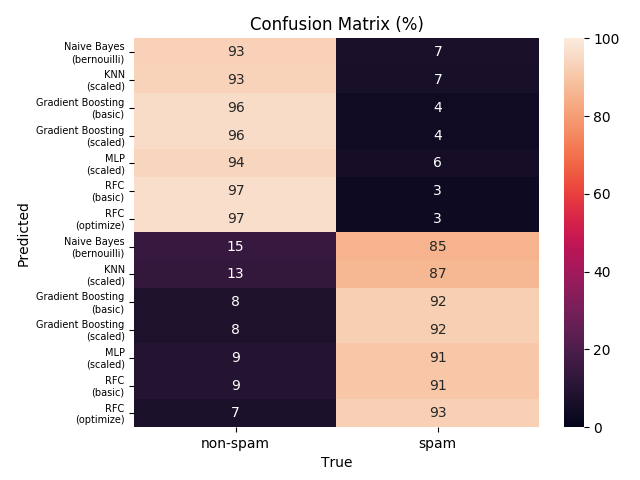
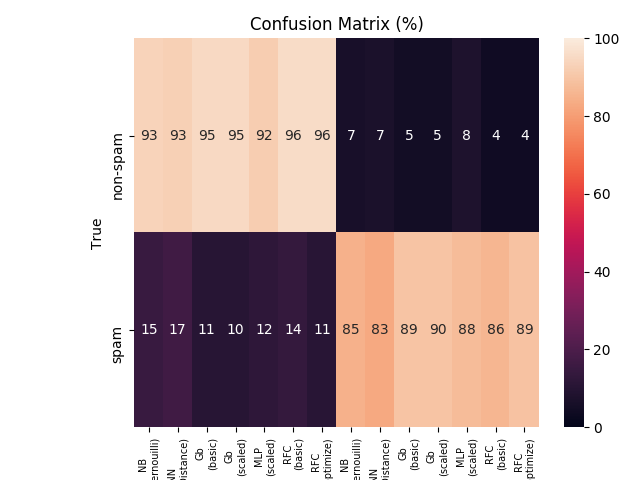
add images of benchs unsing 2 datasets

diff --git a/README.md b/README.md
@@ -2,7 +2,7 @@
 
 Ultimate spam detector
 
-![algorithms benchmark chart](docs/benchmark4.png)
+![algorithms benchmark chart](docs/benchmark5.png)
 ![interleaved confusion matrix](docs/confusion-matrix1.png)
 
 
